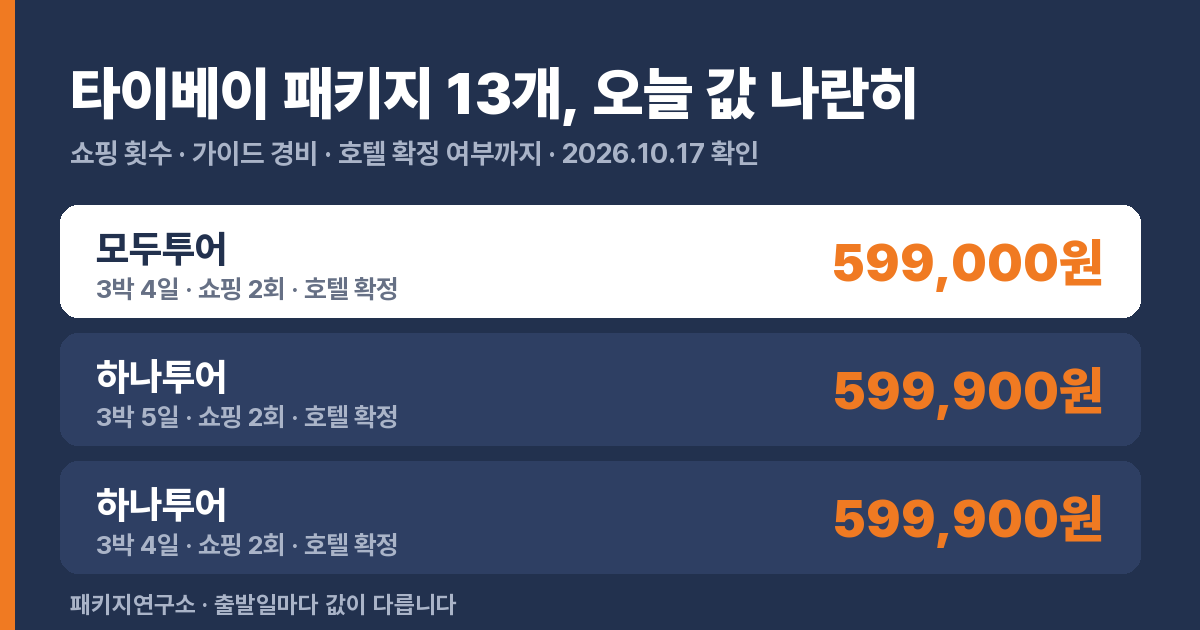
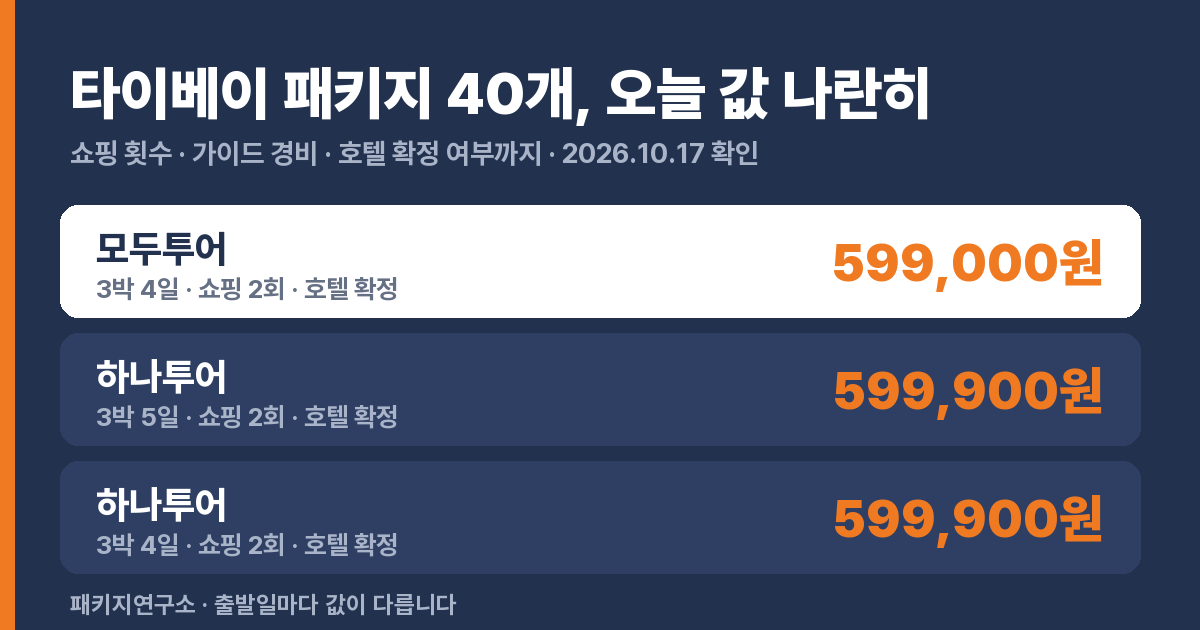
목적지 비교 페이지 2026.10.17

Changed region(s): [[0.37, 0.0905, 0.7708, 0.2111]]

diff --git a/d/taipei.html b/d/taipei.html
@@ -1,8 +1,8 @@
 <!doctype html><html lang="ko"><head>
 <meta charset="utf-8"><meta name="viewport" content="width=device-width,initial-scale=1">
 <title>타이베이 패키지 비교 — 패키지연구소</title>
-<meta name="description" content="타이베이 패키지 13개를 가격·쇼핑 횟수·가이드 경비·호텔 확정 여부로 나란히 놓고 비교합니다.">
-<link rel="canonical" href="https://package-researcher.github.io/d/taipei.html"><meta property="og:type" content="website"><meta property="og:url" content="https://package-researcher.github.io/d/taipei.html"><meta property="og:title" content="타이베이 패키지 13개, 나란히 비교"><meta property="og:description" content="가격·쇼핑 횟수·가이드 경비·호텔 확정 여부 · 오늘 기준 요금"><meta property="og:image" content="https://package-researcher.github.io/d/og/taipei.png"><meta property="og:image:width" content="1200"><meta property="og:image:height" content="630"><meta name="twitter:card" content="summary_large_image"><script type="application/ld+json">{"@context": "https://schema.org", "@graph": [{"@type": "WebPage", "name": "타이베이 패키지 13개 비교", "url": "https://package-researcher.github.io/d/taipei.html", "publisher": {"@type": "Organization", "name": "패키지연구소", "url": "https://package-researcher.github.io/", "logo": "https://package-researcher.github.io/logo.png", "sameAs": ["https://www.youtube.com/@package-researcher", "https://www.instagram.com/package_researcher", "https://www.threads.net/@package_researcher", "https://clip.naver.com/@packagelabs", "https://blog.naver.com/robotnady10", "https://spnd.tistory.com"]}}, {"@type": "BreadcrumbList", "itemListElement": [{"@type": "ListItem", "position": 1, "name": "패키지연구소", "item": "https://package-researcher.github.io/"}, {"@type": "ListItem", "position": 2, "name": "타이베이 패키지 비교", "item": "https://package-researcher.github.io/d/taipei.html"}]}]}</script>
+<meta name="description" content="타이베이 패키지 40개를 가격·쇼핑 횟수·가이드 경비·호텔 확정 여부로 나란히 놓고 비교합니다.">
+<link rel="canonical" href="https://package-researcher.github.io/d/taipei.html"><meta property="og:type" content="website"><meta property="og:url" content="https://package-researcher.github.io/d/taipei.html"><meta property="og:title" content="타이베이 패키지 40개, 나란히 비교"><meta property="og:description" content="가격·쇼핑 횟수·가이드 경비·호텔 확정 여부 · 오늘 기준 요금"><meta property="og:image" content="https://package-researcher.github.io/d/og/taipei.png"><meta property="og:image:width" content="1200"><meta property="og:image:height" content="630"><meta name="twitter:card" content="summary_large_image"><script type="application/ld+json">{"@context": "https://schema.org", "@graph": [{"@type": "WebPage", "name": "타이베이 패키지 40개 비교", "url": "https://package-researcher.github.io/d/taipei.html", "publisher": {"@type": "Organization", "name": "패키지연구소", "url": "https://package-researcher.github.io/", "logo": "https://package-researcher.github.io/logo.png", "sameAs": ["https://www.youtube.com/@package-researcher", "https://www.instagram.com/package_researcher", "https://www.threads.net/@package_researcher", "https://clip.naver.com/@packagelabs", "https://blog.naver.com/robotnady10", "https://spnd.tistory.com"]}}, {"@type": "BreadcrumbList", "itemListElement": [{"@type": "ListItem", "position": 1, "name": "패키지연구소", "item": "https://package-researcher.github.io/"}, {"@type": "ListItem", "position": 2, "name": "타이베이 패키지 비교", "item": "https://package-researcher.github.io/d/taipei.html"}]}]}</script>
 <style>
 *{box-sizing:border-box}
 body{margin:0;background:#F7F5EF;color:#22314E;word-break:keep-all;overflow-wrap:anywhere;
@@ -62,7 +62,7 @@ h1{font-size:27px;line-height:1.3;margin:6px 0 4px;letter-spacing:-.02em}
 </style></head><body><div class="wrap">
 <a class="back" href="https://package-researcher.github.io/">← 패키지연구소</a>
 <h1>타이베이 패키지, 나란히 놓고 비교</h1>
-<p class="sub">13개 · 2026.10.17 기준 · 값싼 순</p>
+<p class="sub">40개 · 2026.10.17 기준 · 값싼 순</p>
 <div class="top3"><h2>오늘 최저가 3</h2><div class="t3"><div class="rk">1</div><div class="who"><b>모두투어</b><span>3박 4일 · 쇼핑 2회 · 현지 가이드 경비 40달러</span></div><div class="t3p">599,000원</div><a href="https://naver.me/GcATN8qf" target="_blank" rel="sponsored noopener">요금 보기</a></div><div class="t3"><div class="rk">2</div><div class="who"><b>하나투어</b><span>3박 5일 · 쇼핑 2회 · 현지 가이드 경비 40달러</span></div><div class="t3p">599,900원</div><a href="https://naver.me/GVV97Ogs" target="_blank" rel="sponsored noopener">요금 보기</a></div><div class="t3"><div class="rk">3</div><div class="who"><b>하나투어</b><span>3박 4일 · 쇼핑 2회 · 현지 가이드 경비 40달러</span></div><div class="t3p">599,900원</div><a href="https://naver.me/GLh3ePzH" target="_blank" rel="sponsored noopener">요금 보기</a></div></div>
 <div class="plab"><div class="plab-t">타이베이 패키지 전체를 조건으로 비교</div><div class="plab-s">쇼핑 0회·선택관광 없음·가이드 경비 포함만 골라 보기</div><a class="plab-go" href="https://pkg-lab.com/go/?q=%ED%83%80%EC%9D%B4%EB%B2%A0%EC%9D%B4&amp;utm_source=ghpages&amp;utm_medium=card&amp;utm_campaign=dest" target="_blank" rel="sponsored noopener">조건으로 골라 보기 →</a></div>
 <div class="note"><b>이 표를 보는 법.</b> 값만 보면 안 됩니다.
@@ -75,12 +75,39 @@ h1{font-size:27px;line-height:1.3;margin:6px 0 4px;letter-spacing:-.02em}
 <div class="card"><div class="tag gray">호텔 확정</div><div class="name">[출발확정] [선착순특가] 타이베이/예류/스펀/지우펀/단수이 4일 초특가 핵심관광</div><div class="price">599,900원<span>1인</span></div><div class="grid"><div class="kv"><b>여행사</b>하나투어</div><div class="kv"><b>일정</b>3박 4일</div><div class="kv"><b>항공</b>에어부산 직항</div><div class="kv"><b>출발</b>10:50</div><div class="kv"><b>쇼핑</b>2회</div><div class="kv"><b>가이드 경비</b>40달러</div><div class="kv"><b>식사</b>10회</div><div class="kv"><b>호텔</b>추토 플라자 호텔</div><div class="kv"><b>인솔자</b>없음</div></div><div class="fit"><span class="ok">좋은 점</span> 직항 · 호텔 미리 확정<br><span class="no">따져볼 점</span> 가이드 경비 현지 40달러</div><a class="go" href="https://naver.me/GLh3ePzH" target="_blank" rel="sponsored noopener">오늘 기준 요금 보기</a></div>
 <div class="card"><div class="tag gray">호텔 확정</div><div class="name">[출발확정/조인행사][BEST픽][101타워/망고빙수+버블티] 타이페이 3박4일 (4성급/쇼핑2회/단수이/야류/지우펀/스펀)</div><div class="price">699,000원<span>1인</span></div><div class="grid"><div class="kv"><b>여행사</b>모두투어</div><div class="kv"><b>일정</b>3박 4일</div><div class="kv"><b>항공</b>제주항공 직항</div><div class="kv"><b>출발</b>09:30</div><div class="kv"><b>쇼핑</b>2회</div><div class="kv"><b>가이드 경비</b>40달러</div><div class="kv"><b>식사</b>9회</div><div class="kv"><b>인솔자</b>없음</div></div><div class="fit"><span class="ok">좋은 점</span> 직항 · 호텔 미리 확정<br><span class="no">따져볼 점</span> 가이드 경비 현지 40달러</div><a class="go" href="https://naver.me/FlBk7Pfk" target="_blank" rel="sponsored noopener">오늘 기준 요금 보기</a></div>
 <div class="card"><div class="tag gray">호텔 확정</div><div class="name">[출발확정+조인행사][노쇼핑] 타이페이 4일 (시외4성호텔/단수이/야류/지우펀/스펀/야시장)</div><div class="price">739,000원<span>1인</span></div><div class="grid"><div class="kv"><b>여행사</b>모두투어</div><div class="kv"><b>일정</b>3박 4일</div><div class="kv"><b>항공</b>에어부산 직항</div><div class="kv"><b>출발</b>10:50</div><div class="kv"><b>쇼핑</b>0회</div><div class="kv"><b>가이드 경비</b>40달러</div><div class="kv"><b>식사</b>10회</div><div class="kv"><b>인솔자</b>없음</div></div><div class="fit"><span class="ok">좋은 점</span> 쇼핑 없음 · 직항 · 호텔 미리 확정<br><span class="no">따져볼 점</span> 가이드 경비 현지 40달러</div><a class="go" href="https://naver.me/5dhzLwGm" target="_blank" rel="sponsored noopener">오늘 기준 요금 보기</a></div>
+<div class="card"> <div class="tag gray">영상으로 따져봄</div><div class="name">[타이중 왕복] 대만 3박4일 노쇼핑 핵심투어 101빌딩</div><div class="price">749,000원<span>1인</span></div><div class="grid"><div class="kv"><b>여행사</b>참좋은여행</div><div class="kv"><b>일정</b>3박 4일</div><div class="kv"><b>항공</b>트리니티항공 직항</div><div class="kv"><b>출발</b>14:25</div><div class="kv"><b>쇼핑</b>0회</div><div class="kv"><b>가이드 경비</b>40달러</div><div class="kv"><b>식사</b>9회</div><div class="kv"><b>인솔자</b>없음</div></div><div class="fit"><b>추천</b> · <span class="ok">맞는 분</span> 쇼핑센터 없이 대만 핵심을 한 번에 보고 싶은 분<br><span class="no">안 맞는 분</span> 버스 편도 2시간 반(공항↔타이베이)이 힘드신 분</div><div style="margin:10px 0 2px;font-size:14px">▶ <a href="https://youtu.be/qguf7l-D0eM" target="_blank" rel="noopener">이 상품 따져본 영상</a> · <a href="https://package-researcher.github.io/a/rmq_verygood_20261111.html?s=cmp">표·계산 글</a></div><a class="go" href="https://naver.me/5c87AkaR" target="_blank" rel="sponsored noopener">오늘 기준 요금 보기</a></div>
+<div class="card"><div class="name">대만4일 홈쇼핑방영 101빌딩 특식4회 진에어항공</div><div class="price">749,900원<span>1인</span></div><div class="grid"><div class="kv"><b>여행사</b>노랑풍선</div><div class="kv"><b>일정</b>3박 4일</div><div class="kv"><b>항공</b>진에어 직항</div><div class="kv"><b>출발</b>09:35</div><div class="kv"><b>쇼핑</b>2회</div><div class="kv"><b>가이드 경비</b>40달러</div><div class="kv"><b>식사</b>9회</div><div class="kv"><b>인솔자</b>없음</div></div><div class="fit"><span class="ok">좋은 점</span> 직항<br><span class="no">따져볼 점</span> 가이드 경비 현지 40달러</div><a class="go" href="https://naver.me/5p0oR17f" target="_blank" rel="sponsored noopener">오늘 기준 요금 보기</a></div>
+<div class="card"><div class="name">출발확정 [타이중 왕복] 노쇼핑/월드체인호텔UP 대만 3박4일 지우펀야경 101빌딩</div><div class="price">799,000원<span>1인</span></div><div class="grid"><div class="kv"><b>여행사</b>참좋은여행</div><div class="kv"><b>일정</b>3박 4일</div><div class="kv"><b>항공</b>트리니티항공 직항</div><div class="kv"><b>출발</b>14:25</div><div class="kv"><b>쇼핑</b>0회</div><div class="kv"><b>가이드 경비</b>40달러</div><div class="kv"><b>식사</b>9회</div><div class="kv"><b>인솔자</b>없음</div></div><div class="fit"><span class="ok">좋은 점</span> 쇼핑 없음 · 직항<br><span class="no">따져볼 점</span> 가이드 경비 현지 40달러</div><a class="go" href="https://naver.me/xLNnkxmO" target="_blank" rel="sponsored noopener">오늘 기준 요금 보기</a></div>
+<div class="card"><div class="name">출발확정[김포][노쇼핑/대만 4일] 101빌딩 참좋은 단독일정</div><div class="price">799,000원<span>1인</span></div><div class="grid"><div class="kv"><b>여행사</b>참좋은여행</div><div class="kv"><b>일정</b>3박 4일</div><div class="kv"><b>항공</b>이스타항공 직항</div><div class="kv"><b>출발</b>11:25</div><div class="kv"><b>쇼핑</b>0회</div><div class="kv"><b>가이드 경비</b>40달러</div><div class="kv"><b>식사</b>8회</div><div class="kv"><b>인솔자</b>없음</div></div><div class="fit"><span class="ok">좋은 점</span> 쇼핑 없음 · 직항<br><span class="no">따져볼 점</span> 가이드 경비 현지 40달러</div><a class="go" href="https://naver.me/GsBgnHCs" target="_blank" rel="sponsored noopener">오늘 기준 요금 보기</a></div>
 <div class="card"><div class="name">대만/단수이 4일 노옵션 특식4회 진에어항공</div><div class="price">799,900원<span>1인</span></div><div class="grid"><div class="kv"><b>여행사</b>노랑풍선</div><div class="kv"><b>일정</b>3박 4일</div><div class="kv"><b>항공</b>진에어 직항</div><div class="kv"><b>출발</b>09:35</div><div class="kv"><b>쇼핑</b>2회</div><div class="kv"><b>가이드 경비</b>40달러</div><div class="kv"><b>식사</b>9회</div><div class="kv"><b>인솔자</b>없음</div></div><div class="fit"><span class="ok">좋은 점</span> 직항<br><span class="no">따져볼 점</span> 가이드 경비 현지 40달러</div><a class="go" href="https://naver.me/5AuN5zub" target="_blank" rel="sponsored noopener">오늘 기준 요금 보기</a></div>
 <div class="card"><div class="tag gray">호텔 확정</div><div class="name">[출발확정] [NO쇼핑/스마트초이스] 타이베이/예류/스펀/지우펀/우라이 3박 5일 대만족 시내호텔숙박</div><div class="price">799,900원<span>1인</span></div><div class="grid"><div class="kv"><b>여행사</b>하나투어</div><div class="kv"><b>일정</b>3박 5일</div><div class="kv"><b>항공</b>트리니티항공 직항</div><div class="kv"><b>출발</b>22:40</div><div class="kv"><b>쇼핑</b>0회</div><div class="kv"><b>가이드 경비</b>40달러</div><div class="kv"><b>식사</b>9회</div><div class="kv"><b>호텔</b>하얏트 플레이스 뉴 타이베이 시티 신주앙</div><div class="kv"><b>인솔자</b>없음</div></div><div class="fit"><span class="ok">좋은 점</span> 쇼핑 없음 · 직항 · 호텔 미리 확정<br><span class="no">따져볼 점</span> 가이드 경비 현지 40달러</div><a class="go" href="https://naver.me/5kPjgihY" target="_blank" rel="sponsored noopener">오늘 기준 요금 보기</a></div>
+<div class="card"><div class="name">대만3박5일/청주밤출발 핵심관광 베스트셀러 ZE781</div><div class="price">799,900원<span>1인</span></div><div class="grid"><div class="kv"><b>여행사</b>노랑풍선</div><div class="kv"><b>일정</b>3박 5일</div><div class="kv"><b>항공</b>이스타항공 직항</div><div class="kv"><b>출발</b>23:55</div><div class="kv"><b>쇼핑</b>3회</div><div class="kv"><b>가이드 경비</b>40달러</div><div class="kv"><b>식사</b>9회</div><div class="kv"><b>인솔자</b>없음</div></div><div class="fit"><span class="ok">좋은 점</span> 직항<br><span class="no">따져볼 점</span> 쇼핑 3회 · 가이드 경비 현지 40달러</div><a class="go" href="https://naver.me/5ulMmt24" target="_blank" rel="sponsored noopener">오늘 기준 요금 보기</a></div>
+<div class="card"><div class="name">출발확정[대만 4일] 노쇼핑 핵심투어 101빌딩</div><div class="price">849,000원<span>1인</span></div><div class="grid"><div class="kv"><b>여행사</b>참좋은여행</div><div class="kv"><b>일정</b>3박 4일</div><div class="kv"><b>항공</b>아시아나항공 직항</div><div class="kv"><b>출발</b>08:00</div><div class="kv"><b>쇼핑</b>0회</div><div class="kv"><b>가이드 경비</b>40달러</div><div class="kv"><b>식사</b>9회</div><div class="kv"><b>인솔자</b>없음</div></div><div class="fit"><span class="ok">좋은 점</span> 쇼핑 없음 · 직항<br><span class="no">따져볼 점</span> 가이드 경비 현지 40달러</div><a class="go" href="https://naver.me/xWIY7vRX" target="_blank" rel="sponsored noopener">오늘 기준 요금 보기</a></div>
 <div class="card"><div class="name">출발확정 [부산/제주항공 주간편][노쇼핑] 101빌딩/예스지투어/단수이/고궁박물관/시먼딩 망고빙수 4일</div><div class="price">849,000원<span>1인</span></div><div class="grid"><div class="kv"><b>여행사</b>참좋은여행</div><div class="kv"><b>일정</b>3박 4일</div><div class="kv"><b>항공</b>제주항공 직항</div><div class="kv"><b>출발</b>09:35</div><div class="kv"><b>쇼핑</b>0회</div><div class="kv"><b>가이드 경비</b>40달러</div><div class="kv"><b>식사</b>9회</div><div class="kv"><b>인솔자</b>없음</div></div><div class="fit"><span class="ok">좋은 점</span> 쇼핑 없음 · 직항<br><span class="no">따져볼 점</span> 가이드 경비 현지 40달러</div><a class="go" href="https://naver.me/GfrSuW6a" target="_blank" rel="sponsored noopener">오늘 기준 요금 보기</a></div>
+<div class="card"><div class="name">출발확정 [노쇼핑/월드체인호텔UP] 대만 3박4일 지우펀야경 101빌딩 B777대형기종</div><div class="price">849,000원<span>1인</span></div><div class="grid"><div class="kv"><b>여행사</b>참좋은여행</div><div class="kv"><b>일정</b>3박 4일</div><div class="kv"><b>항공</b>진에어 직항</div><div class="kv"><b>출발</b>09:35</div><div class="kv"><b>쇼핑</b>0회</div><div class="kv"><b>가이드 경비</b>40달러</div><div class="kv"><b>식사</b>9회</div><div class="kv"><b>인솔자</b>없음</div></div><div class="fit"><span class="ok">좋은 점</span> 쇼핑 없음 · 직항<br><span class="no">따져볼 점</span> 가이드 경비 현지 40달러</div><a class="go" href="https://naver.me/xJcZafUi" target="_blank" rel="sponsored noopener">오늘 기준 요금 보기</a></div>
+<div class="card"><div class="name">대만4일 노쇼핑 7C</div><div class="price">849,900원<span>1인</span></div><div class="grid"><div class="kv"><b>여행사</b>노랑풍선</div><div class="kv"><b>일정</b>3박 4일</div><div class="kv"><b>항공</b>제주항공 직항</div><div class="kv"><b>출발</b>10:40</div><div class="kv"><b>쇼핑</b>0회</div><div class="kv"><b>가이드 경비</b>40달러</div><div class="kv"><b>식사</b>10회</div><div class="kv"><b>인솔자</b>없음</div></div><div class="fit"><span class="ok">좋은 점</span> 쇼핑 없음 · 직항<br><span class="no">따져볼 점</span> 가이드 경비 현지 40달러</div><a class="go" href="https://naver.me/54KIrgWQ" target="_blank" rel="sponsored noopener">오늘 기준 요금 보기</a></div>
+<div class="card"><div class="name">출발확정 [부산/제주항공][노쇼핑/식사UP] 대만/미식여행/우라이 케이블카+꼬마기차 4일</div><div class="price">879,000원<span>1인</span></div><div class="grid"><div class="kv"><b>여행사</b>참좋은여행</div><div class="kv"><b>일정</b>3박 4일</div><div class="kv"><b>항공</b>제주항공 직항</div><div class="kv"><b>출발</b>09:35</div><div class="kv"><b>쇼핑</b>0회</div><div class="kv"><b>가이드 경비</b>40달러</div><div class="kv"><b>식사</b>9회</div><div class="kv"><b>인솔자</b>없음</div></div><div class="fit"><span class="ok">좋은 점</span> 쇼핑 없음 · 직항<br><span class="no">따져볼 점</span> 가이드 경비 현지 40달러</div><a class="go" href="https://naver.me/FLEv8oY8" target="_blank" rel="sponsored noopener">오늘 기준 요금 보기</a></div>
+<div class="card"><div class="name">출발확정[김포][대만 3일] 노쇼핑 핵심투어 참좋은 단독일정</div><div class="price">899,000원<span>1인</span></div><div class="grid"><div class="kv"><b>여행사</b>참좋은여행</div><div class="kv"><b>일정</b>2박 3일</div><div class="kv"><b>항공</b>트리니티항공 직항</div><div class="kv"><b>출발</b>11:10</div><div class="kv"><b>쇼핑</b>0회</div><div class="kv"><b>가이드 경비</b>30달러</div><div class="kv"><b>식사</b>5회</div><div class="kv"><b>인솔자</b>없음</div></div><div class="fit"><span class="ok">좋은 점</span> 쇼핑 없음 · 직항<br><span class="no">따져볼 점</span> 가이드 경비 현지 30달러</div><a class="go" href="https://naver.me/xfb0LInr" target="_blank" rel="sponsored noopener">오늘 기준 요금 보기</a></div>
+<div class="card"><div class="name">출발확정[청주][노팁/노쇼핑/노옵션] 대만 3박 5일 호텔UP 핵심투어 101빌딩</div><div class="price">899,000원<span>1인</span></div><div class="grid"><div class="kv"><b>여행사</b>참좋은여행</div><div class="kv"><b>일정</b>3박 5일</div><div class="kv"><b>항공</b>이스타항공 직항</div><div class="kv"><b>출발</b>23:55</div><div class="kv"><b>쇼핑</b>0회</div><div class="kv"><b>가이드 경비</b>포함</div><div class="kv"><b>식사</b>9회</div><div class="kv"><b>인솔자</b>없음</div></div><div class="fit"><span class="ok">좋은 점</span> 쇼핑 없음 · 가이드 경비 포함 · 직항</div><a class="go" href="https://naver.me/xtNJaoqy" target="_blank" rel="sponsored noopener">오늘 기준 요금 보기</a></div>
+<div class="card"><div class="name">[청주][노팁/노옵션/노쇼핑] 양명산 티엔라이 노천온천 101전망대 포함 대만 3박 5일</div><div class="price">899,000원<span>1인</span></div><div class="grid"><div class="kv"><b>여행사</b>참좋은여행</div><div class="kv"><b>일정</b>3박 5일</div><div class="kv"><b>항공</b>이스타항공 직항</div><div class="kv"><b>출발</b>23:55</div><div class="kv"><b>쇼핑</b>0회</div><div class="kv"><b>가이드 경비</b>포함</div><div class="kv"><b>식사</b>9회</div><div class="kv"><b>인솔자</b>없음</div></div><div class="fit"><span class="ok">좋은 점</span> 쇼핑 없음 · 가이드 경비 포함 · 직항</div><a class="go" href="https://naver.me/5FD15r9p" target="_blank" rel="sponsored noopener">오늘 기준 요금 보기</a></div>
+<div class="card"><div class="name">출발확정[김포][노쇼핑/월드체인호텔UP] 대만 3일 지우펀야경 101빌딩</div><div class="price">899,000원<span>1인</span></div><div class="grid"><div class="kv"><b>여행사</b>참좋은여행</div><div class="kv"><b>일정</b>2박 3일</div><div class="kv"><b>항공</b>트리니티항공 직항</div><div class="kv"><b>출발</b>11:10</div><div class="kv"><b>쇼핑</b>0회</div><div class="kv"><b>가이드 경비</b>30달러</div><div class="kv"><b>식사</b>5회</div><div class="kv"><b>인솔자</b>없음</div></div><div class="fit"><span class="ok">좋은 점</span> 쇼핑 없음 · 직항<br><span class="no">따져볼 점</span> 가이드 경비 현지 30달러</div><a class="go" href="https://naver.me/FqI0DMah" target="_blank" rel="sponsored noopener">오늘 기준 요금 보기</a></div>
+<div class="card"><div class="name">출발확정[대만 4일] 노쇼핑 핵심투어 101빌딩오후출발</div><div class="price">899,000원<span>1인</span></div><div class="grid"><div class="kv"><b>여행사</b>참좋은여행</div><div class="kv"><b>일정</b>3박 4일</div><div class="kv"><b>항공</b>아시아나항공 직항</div><div class="kv"><b>출발</b>13:40</div><div class="kv"><b>쇼핑</b>0회</div><div class="kv"><b>가이드 경비</b>40달러</div><div class="kv"><b>식사</b>9회</div><div class="kv"><b>인솔자</b>없음</div></div><div class="fit"><span class="ok">좋은 점</span> 쇼핑 없음 · 직항<br><span class="no">따져볼 점</span> 가이드 경비 현지 40달러</div><a class="go" href="https://naver.me/xM5tr0rL" target="_blank" rel="sponsored noopener">오늘 기준 요금 보기</a></div>
 <div class="card"><div class="tag gray">호텔 확정</div><div class="name">[출발확정][여행핫딜][노쇼핑/101전망대] 대만/단수이/예류/스펀/지우펀 4일 (4성호텔/천등체험/특식4회)</div><div class="price">899,900원<span>1인</span></div><div class="grid"><div class="kv"><b>여행사</b>모두투어</div><div class="kv"><b>일정</b>3박 4일</div><div class="kv"><b>항공</b>제주항공 직항</div><div class="kv"><b>출발</b>10:40</div><div class="kv"><b>쇼핑</b>0회</div><div class="kv"><b>가이드 경비</b>40달러</div><div class="kv"><b>식사</b>9회</div><div class="kv"><b>인솔자</b>없음</div></div><div class="fit"><span class="ok">좋은 점</span> 쇼핑 없음 · 직항 · 호텔 미리 확정<br><span class="no">따져볼 점</span> 가이드 경비 현지 40달러</div><a class="go" href="https://naver.me/50B5wKmM" target="_blank" rel="sponsored noopener">오늘 기준 요금 보기</a></div>
+<div class="card"><div class="name">출발확정[청주][노쇼핑/월드체인호텔 UP] 대만 4일 지우펀 야경 101빌딩오전출발</div><div class="price">949,000원<span>1인</span></div><div class="grid"><div class="kv"><b>여행사</b>참좋은여행</div><div class="kv"><b>일정</b>3박 4일</div><div class="kv"><b>항공</b>에어로케이 직항</div><div class="kv"><b>출발</b>08:45</div><div class="kv"><b>쇼핑</b>0회</div><div class="kv"><b>가이드 경비</b>40달러</div><div class="kv"><b>식사</b>9회</div><div class="kv"><b>인솔자</b>없음</div></div><div class="fit"><span class="ok">좋은 점</span> 쇼핑 없음 · 직항<br><span class="no">따져볼 점</span> 가이드 경비 현지 40달러</div><a class="go" href="https://naver.me/xAfXnboG" target="_blank" rel="sponsored noopener">오늘 기준 요금 보기</a></div>
+<div class="card"><div class="name">[타이중 왕복] 노팁/노쇼핑/노옵션 대만 3박4일 호텔UP 핵심투어 101빌딩</div><div class="price">949,000원<span>1인</span></div><div class="grid"><div class="kv"><b>여행사</b>참좋은여행</div><div class="kv"><b>일정</b>3박 4일</div><div class="kv"><b>항공</b>트리니티항공 직항</div><div class="kv"><b>출발</b>14:25</div><div class="kv"><b>쇼핑</b>0회</div><div class="kv"><b>가이드 경비</b>포함</div><div class="kv"><b>식사</b>9회</div><div class="kv"><b>인솔자</b>없음</div></div><div class="fit"><span class="ok">좋은 점</span> 쇼핑 없음 · 가이드 경비 포함 · 직항</div><a class="go" href="https://naver.me/GYD679nN" target="_blank" rel="sponsored noopener">오늘 기준 요금 보기</a></div>
 <div class="card"><div class="name">대만/단수이 3박 5일 노팁 노옵션 특식4회 청주출발 ZE</div><div class="price">949,900원<span>1인</span></div><div class="grid"><div class="kv"><b>여행사</b>노랑풍선</div><div class="kv"><b>일정</b>3박 5일</div><div class="kv"><b>항공</b>이스타항공 직항</div><div class="kv"><b>출발</b>23:55</div><div class="kv"><b>쇼핑</b>3회</div><div class="kv"><b>가이드 경비</b>포함</div><div class="kv"><b>식사</b>10회</div><div class="kv"><b>인솔자</b>없음</div></div><div class="fit"><span class="ok">좋은 점</span> 가이드 경비 포함 · 직항<br><span class="no">따져볼 점</span> 쇼핑 3회</div><a class="go" href="https://naver.me/G0pWUzLM" target="_blank" rel="sponsored noopener">오늘 기준 요금 보기</a></div>
+<div class="card"><div class="name">출발확정 [노팁/노옵션/노쇼핑] 대만 3박4일 양명산 티엔라이 노천온천 B777대형기종</div><div class="price">999,000원<span>1인</span></div><div class="grid"><div class="kv"><b>여행사</b>참좋은여행</div><div class="kv"><b>일정</b>3박 4일</div><div class="kv"><b>항공</b>진에어 직항</div><div class="kv"><b>출발</b>09:35</div><div class="kv"><b>쇼핑</b>0회</div><div class="kv"><b>가이드 경비</b>포함</div><div class="kv"><b>식사</b>9회</div><div class="kv"><b>인솔자</b>없음</div></div><div class="fit"><span class="ok">좋은 점</span> 쇼핑 없음 · 가이드 경비 포함 · 직항</div><a class="go" href="https://naver.me/5zUkwyVz" target="_blank" rel="sponsored noopener">오늘 기준 요금 보기</a></div>
+<div class="card"><div class="name">출발확정[대만 4일] 노쇼핑 핵심투어 101빌딩</div><div class="price">999,000원<span>1인</span></div><div class="grid"><div class="kv"><b>여행사</b>참좋은여행</div><div class="kv"><b>일정</b>3박 4일</div><div class="kv"><b>항공</b>제주항공 직항</div><div class="kv"><b>출발</b>10:40</div><div class="kv"><b>쇼핑</b>0회</div><div class="kv"><b>가이드 경비</b>40달러</div><div class="kv"><b>식사</b>9회</div><div class="kv"><b>인솔자</b>없음</div></div><div class="fit"><span class="ok">좋은 점</span> 쇼핑 없음 · 직항<br><span class="no">따져볼 점</span> 가이드 경비 현지 40달러</div><a class="go" href="https://naver.me/56XKXtv6" target="_blank" rel="sponsored noopener">오늘 기준 요금 보기</a></div>
+<div class="card"><div class="name">[중국+대만/연휴특가]샤먼(하문)/진먼(금문도) 3박4일 노옵션노쇼핑 글로벌체인호텔</div><div class="price">999,900원<span>1인</span></div><div class="grid"><div class="kv"><b>여행사</b>노랑풍선</div><div class="kv"><b>일정</b>3박 4일</div><div class="kv"><b>항공</b>이스타항공 직항</div><div class="kv"><b>출발</b>09:30</div><div class="kv"><b>쇼핑</b>0회</div><div class="kv"><b>가이드 경비</b>400위안</div><div class="kv"><b>식사</b>9회</div><div class="kv"><b>인솔자</b>없음</div></div><div class="fit"><span class="ok">좋은 점</span> 쇼핑 없음 · 직항<br><span class="no">따져볼 점</span> 가이드 경비 현지 400위안</div><a class="go" href="https://naver.me/GsBLqlBH" target="_blank" rel="sponsored noopener">오늘 기준 요금 보기</a></div>
+<div class="card"><div class="name">출발확정[청주][노팁/노쇼핑/노옵션] 대만 4일 월드체인호텔 지우펀야경</div><div class="price">1,049,000원<span>1인</span></div><div class="grid"><div class="kv"><b>여행사</b>참좋은여행</div><div class="kv"><b>일정</b>3박 4일</div><div class="kv"><b>항공</b>에어로케이 직항</div><div class="kv"><b>출발</b>08:45</div><div class="kv"><b>쇼핑</b>0회</div><div class="kv"><b>가이드 경비</b>포함</div><div class="kv"><b>식사</b>9회</div><div class="kv"><b>인솔자</b>없음</div></div><div class="fit"><span class="ok">좋은 점</span> 쇼핑 없음 · 가이드 경비 포함 · 직항</div><a class="go" href="https://naver.me/FmGPqo3m" target="_blank" rel="sponsored noopener">오늘 기준 요금 보기</a></div>
+<div class="card"><div class="name">출발확정 [청주][대만 4일] 노쇼핑 핵심투어 101빌딩오전출발</div><div class="price">1,049,000원<span>1인</span></div><div class="grid"><div class="kv"><b>여행사</b>참좋은여행</div><div class="kv"><b>일정</b>3박 4일</div><div class="kv"><b>항공</b>에어로케이 직항</div><div class="kv"><b>출발</b>08:45</div><div class="kv"><b>쇼핑</b>0회</div><div class="kv"><b>가이드 경비</b>40달러</div><div class="kv"><b>식사</b>9회</div><div class="kv"><b>인솔자</b>없음</div></div><div class="fit"><span class="ok">좋은 점</span> 쇼핑 없음 · 직항<br><span class="no">따져볼 점</span> 가이드 경비 현지 40달러</div><a class="go" href="https://naver.me/FLEvzOM6" target="_blank" rel="sponsored noopener">오늘 기준 요금 보기</a></div>
+<div class="card"><div class="name">출발확정 [노팁/노쇼핑/노옵션] 대만 4일 월드체인호텔 지우펀야경오후출발</div><div class="price">1,149,000원<span>1인</span></div><div class="grid"><div class="kv"><b>여행사</b>참좋은여행</div><div class="kv"><b>일정</b>3박 4일</div><div class="kv"><b>항공</b>아시아나항공 직항</div><div class="kv"><b>출발</b>13:40</div><div class="kv"><b>쇼핑</b>0회</div><div class="kv"><b>가이드 경비</b>포함</div><div class="kv"><b>식사</b>9회</div><div class="kv"><b>인솔자</b>없음</div></div><div class="fit"><span class="ok">좋은 점</span> 쇼핑 없음 · 가이드 경비 포함 · 직항</div><a class="go" href="https://naver.me/5VxrSCMw" target="_blank" rel="sponsored noopener">오늘 기준 요금 보기</a></div>
+<div class="card"><div class="name"> [노팁/노쇼핑/노옵션] 대만 4일 호텔UP 핵심투어 101빌딩</div><div class="price">1,149,000원<span>1인</span></div><div class="grid"><div class="kv"><b>여행사</b>참좋은여행</div><div class="kv"><b>일정</b>3박 4일</div><div class="kv"><b>항공</b>아시아나항공 직항</div><div class="kv"><b>출발</b>08:00</div><div class="kv"><b>쇼핑</b>0회</div><div class="kv"><b>가이드 경비</b>포함</div><div class="kv"><b>식사</b>8회</div><div class="kv"><b>인솔자</b>없음</div></div><div class="fit"><span class="ok">좋은 점</span> 쇼핑 없음 · 가이드 경비 포함 · 직항</div><a class="go" href="https://naver.me/5YodHiEx" target="_blank" rel="sponsored noopener">오늘 기준 요금 보기</a></div>
 <div class="card"><div class="tag gray">호텔 확정</div><div class="name">[출발확정](노쇼핑/노옵션/노팁)[베이터우 온천마을]타이페이/예류/스펀/지우펀 4일(5성급호텔/5대특식+3대간식)</div><div class="price">1,149,000원<span>1인</span></div><div class="grid"><div class="kv"><b>여행사</b>모두투어</div><div class="kv"><b>일정</b>3박 4일</div><div class="kv"><b>항공</b>에어부산 직항</div><div class="kv"><b>출발</b>10:50</div><div class="kv"><b>쇼핑</b>0회</div><div class="kv"><b>가이드 경비</b>포함</div><div class="kv"><b>식사</b>10회</div><div class="kv"><b>인솔자</b>없음</div></div><div class="fit"><span class="ok">좋은 점</span> 쇼핑 없음 · 가이드 경비 포함 · 직항</div><a class="go" href="https://naver.me/FRonz1iL" target="_blank" rel="sponsored noopener">오늘 기준 요금 보기</a></div>
+<div class="card"><div class="name">[출발확정/인천출발]샤먼(하문)/진먼(금문도)+남정토루 4박5일 노옵션노쇼핑 글로벌체인호텔</div><div class="price">1,199,900원<span>1인</span></div><div class="grid"><div class="kv"><b>여행사</b>노랑풍선</div><div class="kv"><b>일정</b>4박 5일</div><div class="kv"><b>항공</b>이스타항공 직항</div><div class="kv"><b>출발</b>09:30</div><div class="kv"><b>쇼핑</b>0회</div><div class="kv"><b>가이드 경비</b>500위안</div><div class="kv"><b>식사</b>12회</div><div class="kv"><b>인솔자</b>없음</div></div><div class="fit"><span class="ok">좋은 점</span> 쇼핑 없음 · 직항<br><span class="no">따져볼 점</span> 가이드 경비 현지 500위안</div><a class="go" href="https://naver.me/IgMnd15T" target="_blank" rel="sponsored noopener">오늘 기준 요금 보기</a></div>
+<div class="card"><div class="name">출발확정[청주[노팁/노쇼핑/노옵션] 대만 4일 호텔UP 핵심투어 101빌딩오전출발</div><div class="price">1,249,000원<span>1인</span></div><div class="grid"><div class="kv"><b>여행사</b>참좋은여행</div><div class="kv"><b>일정</b>3박 4일</div><div class="kv"><b>항공</b>에어로케이 직항</div><div class="kv"><b>출발</b>08:45</div><div class="kv"><b>쇼핑</b>0회</div><div class="kv"><b>가이드 경비</b>포함</div><div class="kv"><b>식사</b>9회</div><div class="kv"><b>인솔자</b>없음</div></div><div class="fit"><span class="ok">좋은 점</span> 쇼핑 없음 · 가이드 경비 포함 · 직항</div><a class="go" href="https://naver.me/Gahiut1B" target="_blank" rel="sponsored noopener">오늘 기준 요금 보기</a></div>
+<div class="card"><div class="tag gray">호텔 확정</div><div class="name">[출발확정] 대만/예류/지우펀/우라이 4일청주출발101타워 케이블카 발마사지까르푸자유쇼핑</div><div class="price">1,299,900원<span>1인</span></div><div class="grid"><div class="kv"><b>여행사</b>하나투어</div><div class="kv"><b>일정</b>3박 4일</div><div class="kv"><b>항공</b>에어로케이 직항</div><div class="kv"><b>출발</b>08:45</div><div class="kv"><b>쇼핑</b>0회</div><div class="kv"><b>가이드 경비</b>포함</div><div class="kv"><b>식사</b>9회</div><div class="kv"><b>호텔</b>재스퍼 영 호텔 반차오</div><div class="kv"><b>인솔자</b>없음</div></div><div class="fit"><span class="ok">좋은 점</span> 쇼핑 없음 · 가이드 경비 포함 · 직항</div><a class="go" href="https://naver.me/x52rlUo2" target="_blank" rel="sponsored noopener">오늘 기준 요금 보기</a></div>
+<div class="card"><div class="name">출발확정[온천호텔 투숙] 대만/101빌딩/이란 4일 노팁/노옵션/노쇼핑</div><div class="price">1,349,000원<span>1인</span></div><div class="grid"><div class="kv"><b>여행사</b>참좋은여행</div><div class="kv"><b>일정</b>3박 4일</div><div class="kv"><b>항공</b>아시아나항공 직항</div><div class="kv"><b>출발</b>08:00</div><div class="kv"><b>쇼핑</b>0회</div><div class="kv"><b>가이드 경비</b>포함</div><div class="kv"><b>식사</b>9회</div><div class="kv"><b>인솔자</b>없음</div></div><div class="fit"><span class="ok">좋은 점</span> 쇼핑 없음 · 가이드 경비 포함 · 직항</div><a class="go" href="https://naver.me/5ECYAsBb" target="_blank" rel="sponsored noopener">오늘 기준 요금 보기</a></div>
 <div class="card"><div class="tag gray">호텔 확정</div><div class="name">[출발확정][노쇼핑/노옵션/노팁/5성호텔] 대만/단수이/예류/스펀/지우펀 4일</div><div class="price">1,499,900원<span>1인</span></div><div class="grid"><div class="kv"><b>여행사</b>모두투어</div><div class="kv"><b>일정</b>3박 4일</div><div class="kv"><b>항공</b>대한항공 직항</div><div class="kv"><b>출발</b>09:00</div><div class="kv"><b>쇼핑</b>0회</div><div class="kv"><b>가이드 경비</b>포함</div><div class="kv"><b>식사</b>8회</div><div class="kv"><b>인솔자</b>없음</div></div><div class="fit"><span class="ok">좋은 점</span> 쇼핑 없음 · 가이드 경비 포함 · 직항</div><a class="go" href="https://naver.me/x8kJRM5g" target="_blank" rel="sponsored noopener">오늘 기준 요금 보기</a></div>
 <div class="card"><div class="name">출발확정설 연휴[KE오전][NO옵션/NO쇼핑] 대만(타이베이/예류/스펀/지우펀/단수이) 3박 4일 알로프트 타이베이 베이터우</div><div class="price">2,259,000원<span>1인</span></div><div class="grid"><div class="kv"><b>여행사</b>롯데관광</div><div class="kv"><b>일정</b>3박 4일</div><div class="kv"><b>항공</b>대한항공 직항</div><div class="kv"><b>출발</b>09:00</div><div class="kv"><b>쇼핑</b>0회</div><div class="kv"><b>가이드 경비</b>40달러</div><div class="kv"><b>식사</b>9회</div><div class="kv"><b>인솔자</b>없음</div></div><div class="fit"><span class="ok">좋은 점</span> 쇼핑 없음 · 직항<br><span class="no">따져볼 점</span> 가이드 경비 현지 40달러</div><a class="go" href="https://naver.me/FORKLinH" target="_blank" rel="sponsored noopener">오늘 기준 요금 보기</a></div>
 <div class="note" style="margin-top:18px"><b>이 중 맞는 상품이 없다면 — 직접 짜실 분</b><ul style="margin:8px 0 0;padding-left:18px;line-height:1.9"><li>✈ 인천→타이베이 직항 왕복 <b>322,500원</b>부터 (10/24 출발 · 1인 · 조회값) — <a href="https://myrealt.rip/wHv6dc" target="_blank" rel="noopener">항공권 보기</a></li><li>🎫 [대만]타이베이 101 전망대 89층 입장권(기본 옵션) + 패스트트랙  · 24,000원부터 — <a href="https://myrealt.rip/tWVo74" target="_blank" rel="noopener">보기</a></li></ul><div style="color:#98A2B3;font-size:12px;margin-top:6px">항공값은 마이리얼트립에 저장된 최저 운임이라 실제 검색값과 다를 수 있습니다.</div></div>
